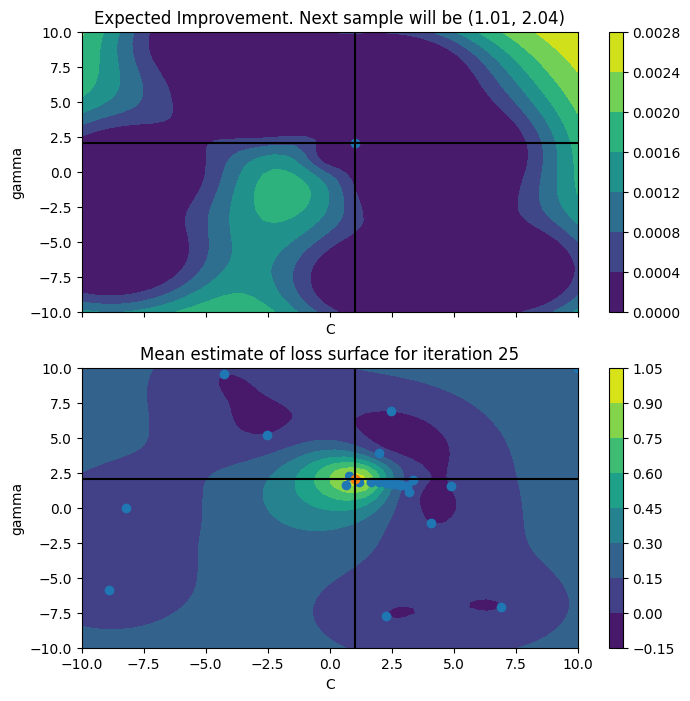
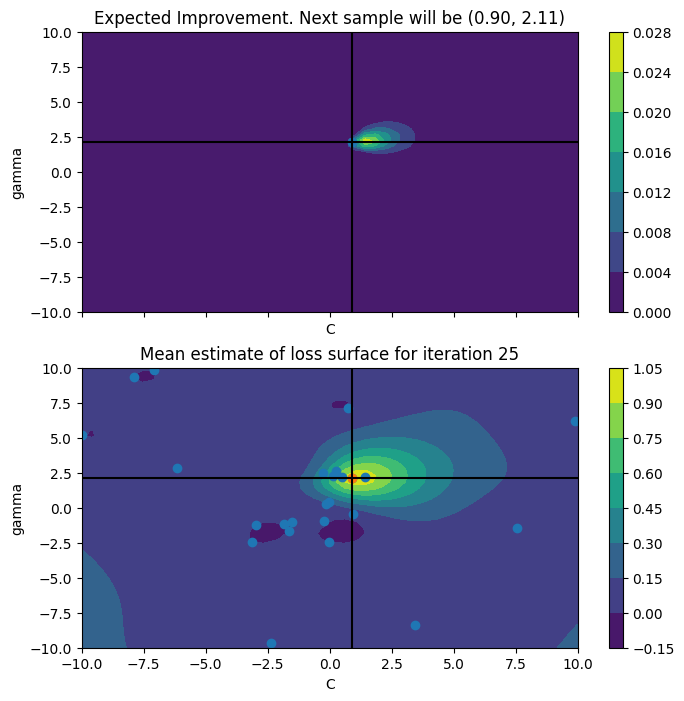
Update Fiber Optim ReadMe

diff --git a/GD_Optim/Optimizer.py b/GD_Optim/Optimizer.py
@@ -206,7 +206,6 @@ def bayesianOptimisation(n_iters, sample_loss, block_query, block_query_var, end
         xp = np.array(x_list)
         yp = np.array(y_list)
         
-
     print(xp,yp)
     retID = yp.argmax()
     print(retID, xp[retID], yp[retID])
@@ -216,5 +215,5 @@ def bayesianOptimisation(n_iters, sample_loss, block_query, block_query_var, end
     plotSingle(model, first_param_grid=XMesh, sampled_params=xp, sampled_loss=yp, nextSample=xp[retID], second_param_grid=YMesh,
             param_dims_to_plot=[0, 1], file_path='./GD_Optim/OutputImage', optimum=None)
 
-            
+
     return xp, yp

diff --git a/README.md b/README.md
@@ -5,7 +5,9 @@ a comprehensive app gathering **QRCode Decoder** and **Fiber Point Optimization*
 * QRCode Decoder:
   * ![Decoder](doc/GDS_ToolKit_Decoder.png)
 * Fiber Point Optimization:
-  * ![Fiber Optim](doc/GDS_ToolKit_Fiber_Optim.png)
+  * ![Fiber Optim](doc/GDS_ToolKit_Fiber_Optim_Plot.png)
+  * The Sample Result for Gaussian Distribution centered at (1,2):
+    * ![Fiber Optim](doc/GDS_ToolKit_Fiber_Optim_Plot_Result.png)
 
 ## LabelQR
 a extended Toolkit for Nazca:
